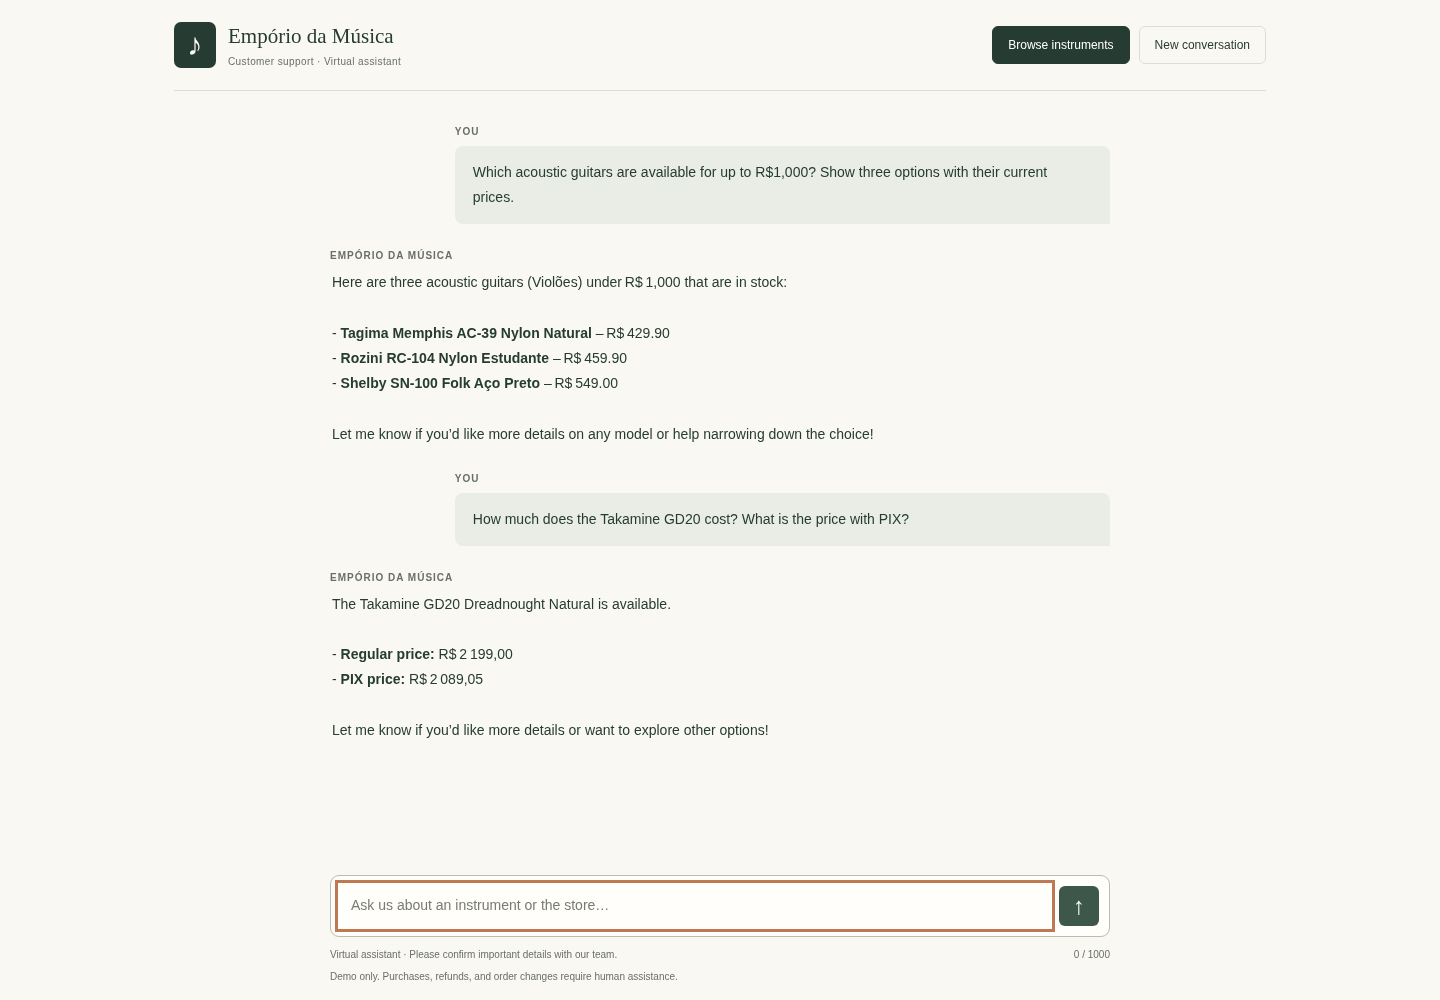
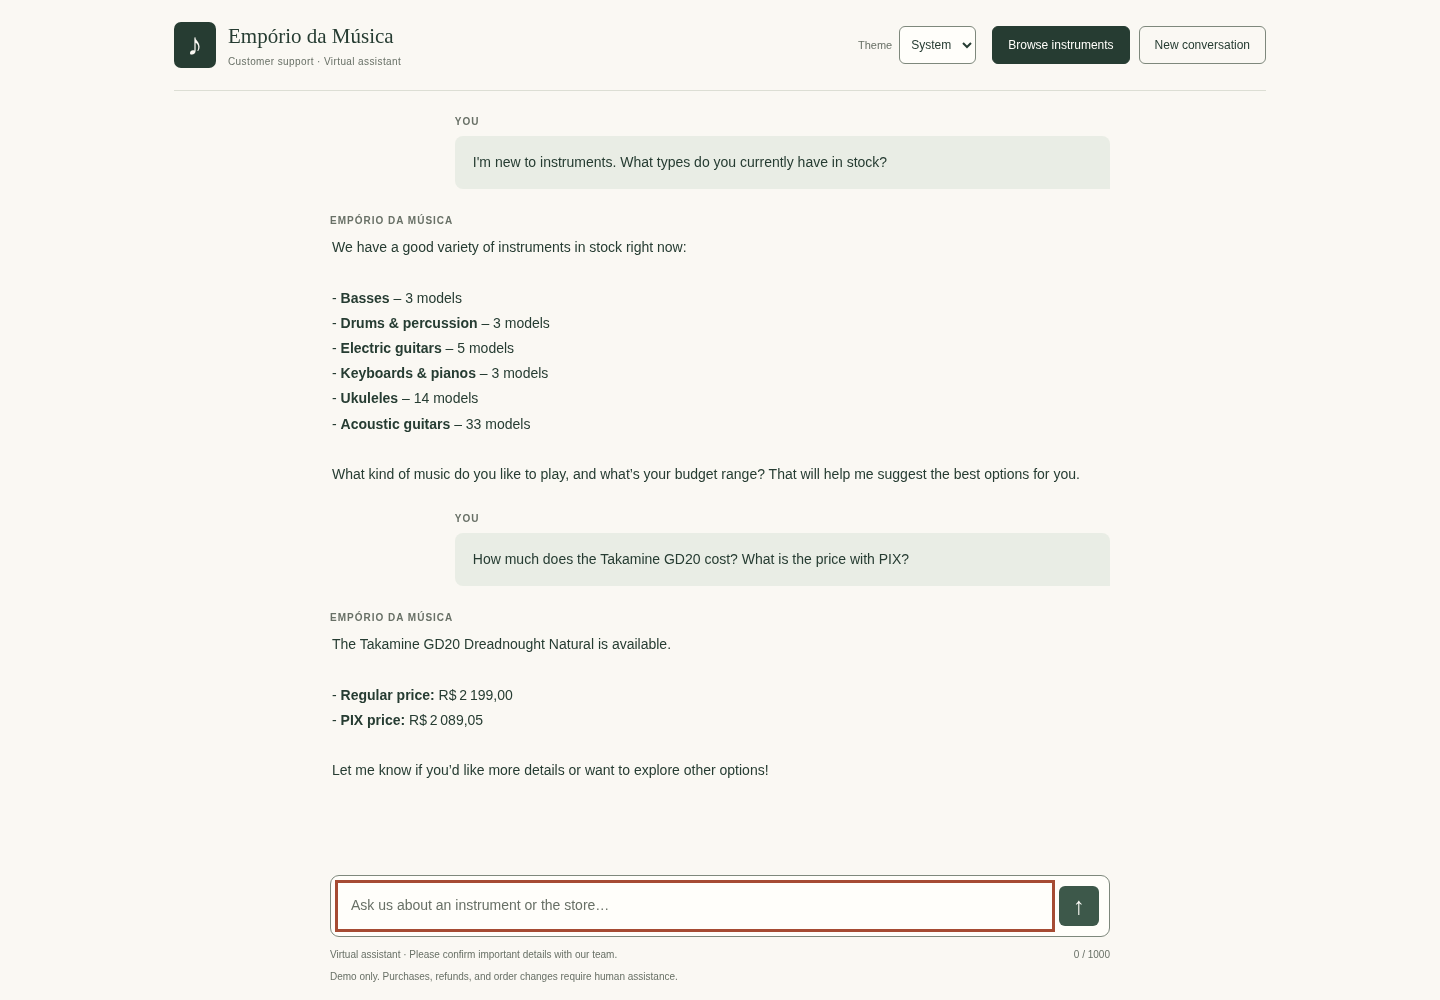
docs: select unedited English conversations for submission

diff --git a/scripts/record_examples.py b/scripts/record_examples.py
@@ -15,7 +15,7 @@ from store_agent.agent import Agent
 
 ROOT = Path(__file__).resolve().parent.parent
 CASES = [
-    ("01-budget-search", "Which acoustic guitars are available for up to R$1,000? Show three options with their current prices."),
+    ("01-product-discovery", "I'm new to instruments. What types do you currently have in stock?"),
     ("02-store-information", "What is your store address, and when can I visit during the week and on Saturday?"),
     ("03-product-price", "How much does the Takamine GD20 cost? What is the price with PIX?"),
     ("04-online-return", "I bought a standard, unmodified instrument online and received it three calendar days ago. It is unused, in its original packaging with all manuals and accessories. Can I return it because I changed my mind? Who pays the return shipping?"),

diff --git a/docs/evaluation.md b/docs/evaluation.md
@@ -9,7 +9,7 @@ whether generated answers agree with the source material.
 | Requirement | Implementation | Evidence |
 | --- | --- | --- |
 | Python as the main language | Catalog rules, PDF extraction, tool execution, Groq integration, and HTTP API are Python. | `store_agent/` |
-| Store-aligned persona | Friendly, brief attendant; answers in the customer's language and keeps to instrument-store support. | `prompt.txt` and the recorded answers |
+| Store-aligned persona | Friendly, brief attendant; English replies focused on instrument-store support. | `prompt.txt` and the recorded answers |
 | Answers grounded in supplied context | Product lookups read the CSV snapshot; policy lookup extracts the supplied PDF. | Tool traces in examples 01–04 |
 | Distinguish data from policies | Catalog questions use product tools; address, hours, and returns use policy sections. | Examples 01–04 |
 | Handle out-of-scope questions | Redirect accessory requests and decline unrelated requests, including attempts to override the role. | Example 05 |
@@ -22,16 +22,19 @@ another customer's records or invent an order status.
 
 ## Recorded conversations
 
-These are actual Groq outputs, not manually composed assistant answers. Each file
-includes the question, response, tool calls, request count, token count, and UTC
-recording time. Source values were checked against the CSVs and PDF.
+These are captured application responses from live Groq runs. Model-generated
+answers are not rewritten. The clarification in example 04 is deliberately
+generated by Python after the model selects `check_return`, as described in its
+execution notes. Each file includes questions, responses, observed tools, request
+and token counts, and UTC recording times. Source values were checked against
+the CSVs and PDF.
 
 | Conversation | What was checked |
 | --- | --- |
-| [Budget search](../examples/01-budget-search.md) | Three available acoustic guitars below R$1,000; current prices R$429.90, R$459.90, and R$549.00 match the snapshot. |
+| [Product discovery](../examples/01-product-discovery.md) | Six categories with available stock, totaling 61 products, match the snapshot. |
 | [Store information](../examples/02-store-information.md) | Address and normal weekday/Saturday hours match sections 1 and 2. This question does not test holiday exceptions. |
 | [Product price](../examples/03-product-price.md) | Takamine GD20 regular price R$2,199.00 and PIX price R$2,089.05 match the lookup. |
-| [Online return](../examples/04-online-return.md) | Online purchase, three days since receipt, product condition, seven-day withdrawal period, store-paid return shipping, and referral to staff. |
+| [Online return](../examples/04-online-return.md) | Two turns: missing facts are requested first, then the supplied purchase details are checked against the return policy. |
 | [Out of scope](../examples/05-out-of-scope.md) | Redirect accessory requests and decline an unrelated recipe request, despite an instruction to ignore the store role. |
 
 The last response still offers a cooking-site referral. It does not provide the
@@ -40,7 +43,7 @@ store-only assistance and remains a response-quality limitation.
 
 ![Chat displaying recorded model responses](images/chat-examples.png)
 
-The image replays the recorded budget and price responses through the browser
+The image replays the recorded discovery and price responses through the browser
 renderer. It does not make a new model request. The two questions in this image
 come from separate recorded scenarios; it is a presentation check, not an
 additional multi-turn quality evaluation.
@@ -116,7 +119,26 @@ does not automatically retry failed provider requests. See
 These reported successful API responses account for 11 model requests and 18,049
 tokens, including the response that failed the initial semantic return check.
 Rejected provider requests did not return token usage and are excluded; this is
-not a full account-usage total. The earlier recorded examples were not regenerated.
+not a full account-usage total. These checks used existing recordings rather than
+regenerating all submission examples.
+
+## English-language review
+
+Interface controls, empty-input and invalid-budget messages, CLI errors, model
+instructions, and documentation were reviewed in English. Form validation uses
+application messages so its language does not depend on the browser's native
+validation popups. The language check used a Portuguese-browser locale without
+sending model requests.
+
+English policy section labels are separate from the original PDF headings used
+for extraction. Product/store names, street addresses, original source excerpts,
+and historical tool arguments retain their supplied spelling. They are source
+identifiers and evidence, not untranslated interface labels.
+
+Two older selected samples included a Portuguese category gloss or withdrawal
+term. They were replaced with already-captured, unedited English conversations:
+the discovery response and the two-turn return workflow. The original versions
+remain in Git history. No new Groq requests were made for this selection or review.
 
 ## Failures found during development
 
@@ -125,8 +147,8 @@ not a full account-usage total. The earlier recorded examples were not regenerat
   searches. This is guidance, not a hard guarantee that the model will omit it.
 - An initial English budget query received a Portuguese answer using unrequested
   PIX prices and referring to a website. The instructions now distinguish current
-  price from optional PIX price, preserve the question's language, and prohibit
-  claiming a website or live-system lookup. The corrected response is example 01.
+  price from optional PIX price and prohibit claiming a website or live-system
+  lookup. The later language review standardized replies in English.
 - An initial return response offered a prepaid shipping label and inferred when
   the refund clock starts. A later response referred the customer to staff but
   still speculated about their paperwork. Return instructions now restrict the
@@ -180,7 +202,7 @@ prompt variations still need broader testing. The generator can still produce
 unsupported language, so the application is a prototype and performs no purchases,
 refunds, or customer-record changes.
 
-The five selected examples report 10 API requests and 15,204 tokens. Before the
+The five selected examples report 11 API requests and 17,048 tokens. Before the
 extended behavior checks, recorded development probes and the live frontend
 verification accounted for 28 model requests and 41,147 reported tokens.
 These are response-reported counts, not an estimate

diff --git a/examples/04-online-return.md b/examples/04-online-return.md
@@ -1,34 +1,42 @@
 # Online Return
 
-Recorded from a live Groq response on 2026-10-31T14:16:53+00:00. Model: `openai/gpt-oss-120b`.
+Two turns from the same live browser conversation using `openai/gpt-oss-120b`.
 
-## Customer
+## Turn 1
 
-I bought a standard, unmodified instrument online and received it three calendar days ago. It is unused, in its original packaging with all manuals and accessories. Can I return it because I changed my mind? Who pays the return shipping?
+Recorded at 2026-10-31T15:17:20.990Z.
 
-## Assistant
+### Customer
 
-Yes, you can return the instrument. According to the store’s return policy (section 4.1), you have up to **7 calendar days** after receipt to request a refund, and the product must be unused, in its original packaging with all manuals and accessories.
+I changed my mind about my purchase. Can I return it?
 
-**Return shipping:**  
-The cost of the return freight is the store’s responsibility when the return is due to “arrependimento” (change of mind).
+### Assistant
 
-**Next step:**  
-Please contact our store team so they can confirm the exact return procedure and provide the necessary instructions.
+I can help check that. Was the purchase made online or in store? How many calendar days ago did you receive the instrument?
 
-If you need any help choosing another instrument or have other questions, just let me know!
+## Turn 2
+
+Recorded at 2026-10-31T15:20:03.046Z.
+
+### Customer
+
+I bought it online and received it three days ago. It is unused, in its original packaging with all manuals and accessories. Can I return it?
+
+### Assistant
+
+Yes, you can return it.
+
+- **Eligibility:** Online purchase, received 3 days ago, unused, in original packaging with all manuals and accessories. This fits the “right of regret” (up to 7 days) per section 4.1 of our policy.  
+- **Refund:** Will be processed using the same payment method within 10 business days.  
+- **Shipping:** The store covers the return freight for regret returns.
+
+**Next step:** Please contact our store team to confirm the return procedure and get the shipping details.
+
+Let me know if you need the contact information or anything else!
 
 ## Execution
 
-2 API requests; 3386 reported tokens. CSV lookups use the supplied local snapshot, not a live retail system.
+- Turn 1: `check_return`, 1 model request and 1,520 reported tokens. Python returned the clarification question directly because purchase channel and receipt time were missing.
+- Turn 2: `check_return`, 2 model requests and 3,800 reported tokens. With the supplied facts, the tool returned section 4 of the manual for the model to explain.
 
-Tool calls:
-
-```json
-[
-  {
-    "tool": "read_policy",
-    "arguments": "{\"topic\":\"returns\"}"
-  }
-]
-```
+Total: 3 model requests and 5,320 reported tokens. No return or refund operation was performed.

diff --git a/README.md b/README.md
@@ -126,10 +126,15 @@ for questions that combine catalog facts and policies. This is a practical initi
 choice, not the result of a comparison benchmark. The 20B model has the same
 reported account quotas, so switching to it would not increase those quotas.
 
-The prompt asks the agent to answer in the customer's language, consult current
+The prompt asks the agent to answer in English, consult current
 facts even on follow-up questions, cite policy sections, and ask for missing
 information instead of guessing. Accessories and unrelated requests are outside
 the store's scope.
+
+Interface labels, validation messages, tool descriptions, and policy section labels
+are in English. Store/product names and street addresses keep their original
+spelling. The supplied CSVs and PDF remain unchanged; original policy excerpts
+and historical tool arguments can therefore contain Portuguese source text.
 
 ## Free-tier budget
 

diff --git a/examples/01-product-discovery.md b/examples/01-product-discovery.md
@@ -1,0 +1,24 @@
+# Product Discovery
+
+Recorded from a live browser run on 2026-10-31T14:52:11.684Z. Model: `openai/gpt-oss-120b`.
+
+## Customer
+
+I'm new to instruments. What types do you currently have in stock?
+
+## Assistant
+
+We have a good variety of instruments in stock right now:
+
+- **Basses** – 3 models  
+- **Drums & percussion** – 3 models  
+- **Electric guitars** – 5 models  
+- **Keyboards & pianos** – 3 models  
+- **Ukuleles** – 14 models  
+- **Acoustic guitars** – 33 models  
+
+What kind of music do you like to play, and what’s your budget range? That will help me suggest the best options for you.
+
+## Execution
+
+2 API requests; 2,870 reported tokens. The server completion log recorded `list_categories`. Category counts were checked against the supplied CSV snapshot.

diff --git a/examples/03-product-price.md b/examples/03-product-price.md
@@ -21,6 +21,9 @@ Let me know if you’d like more details or want to explore other options!
 
 Tool calls:
 
+These original arguments were captured before category normalization and retain
+the dataset's category label. They are diagnostic source values, not interface copy.
+
 ```json
 [
   {
